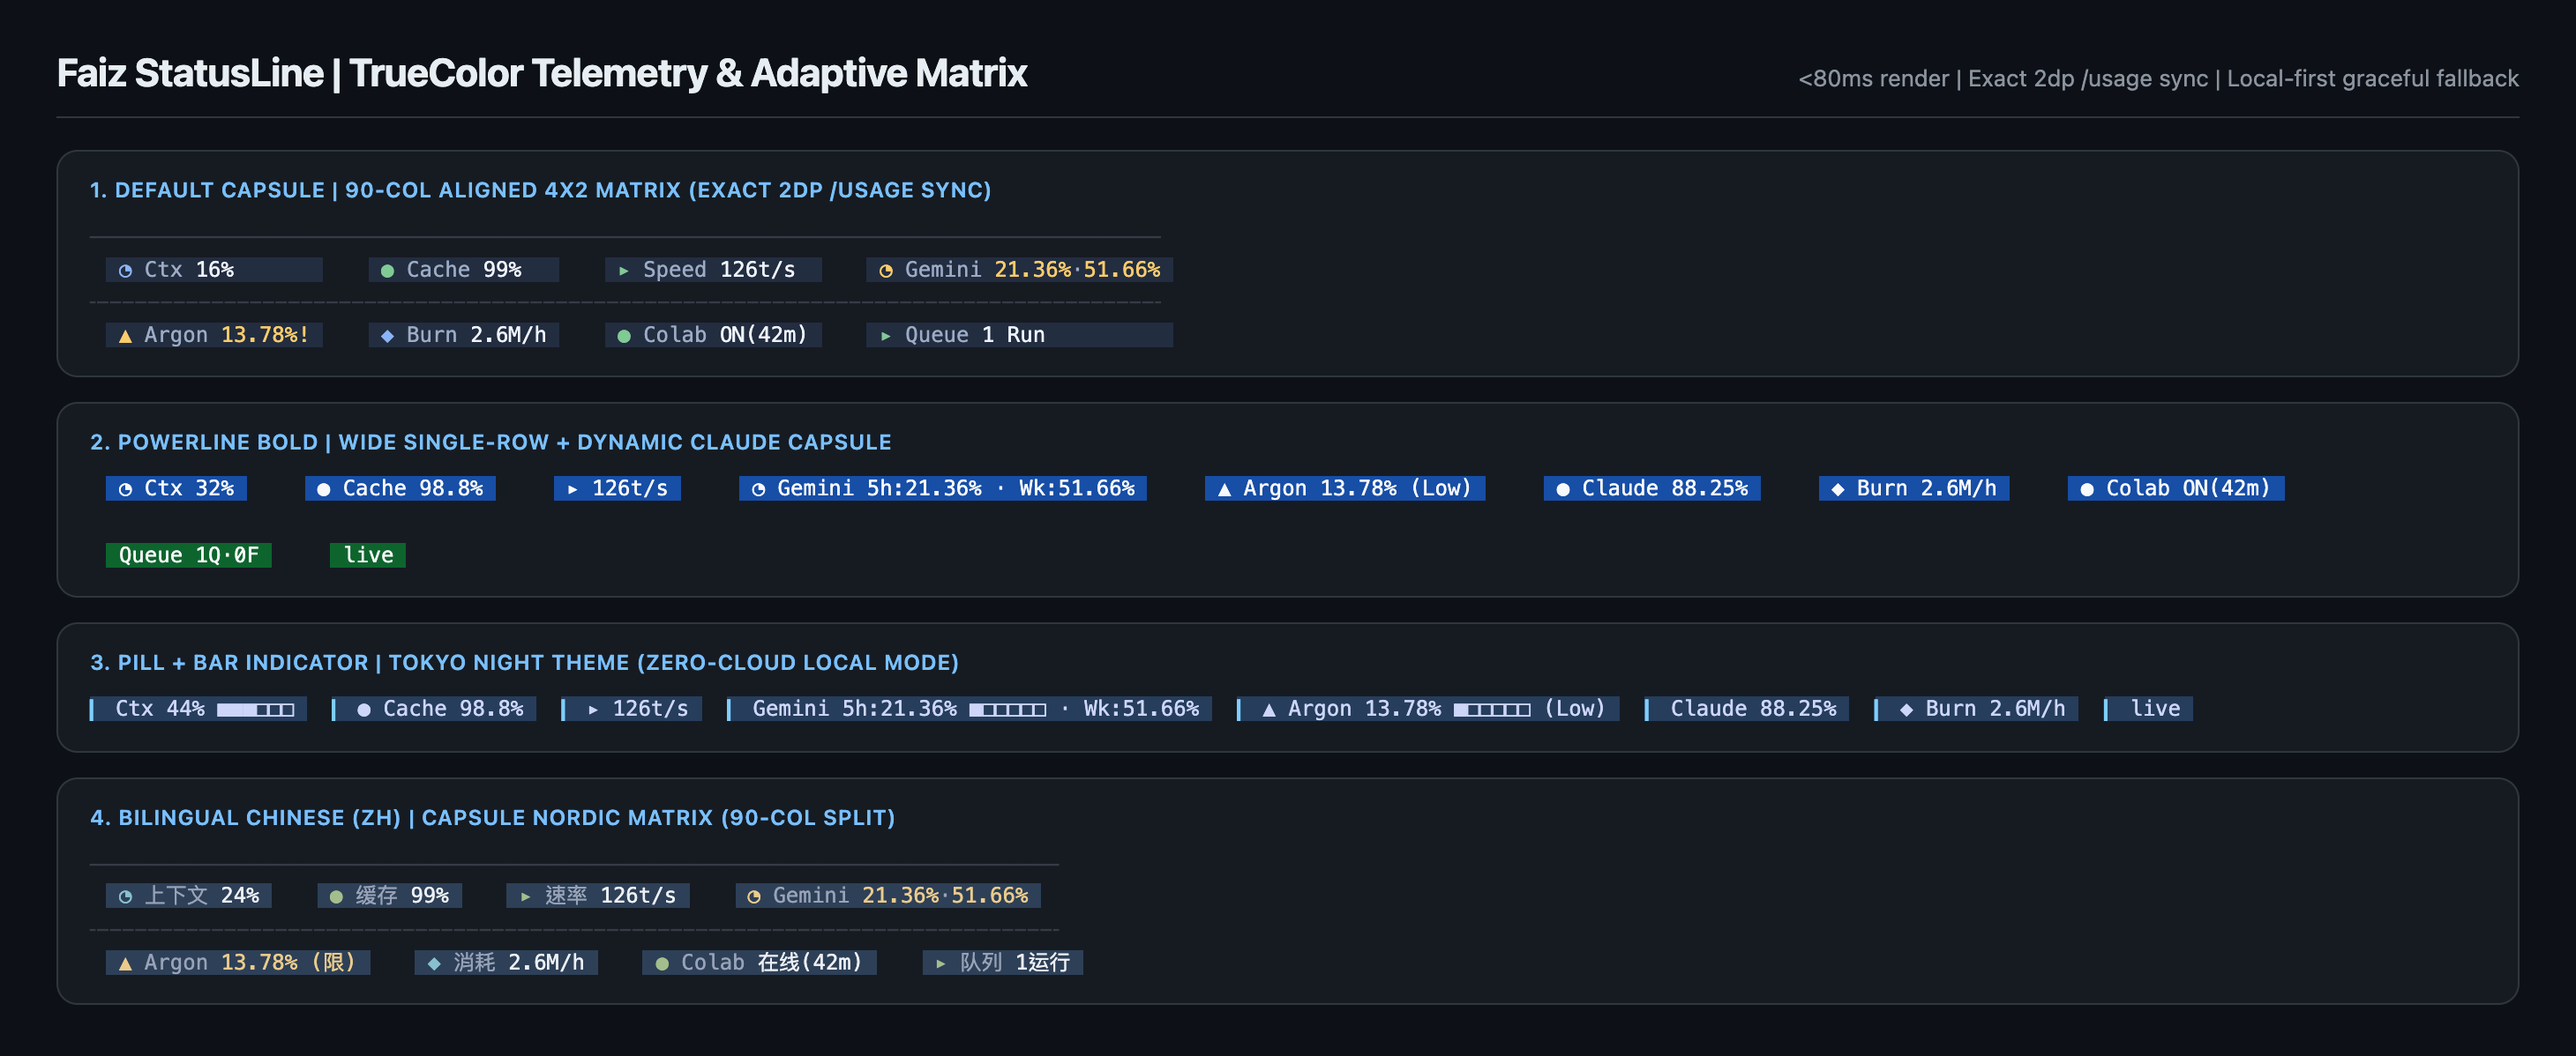
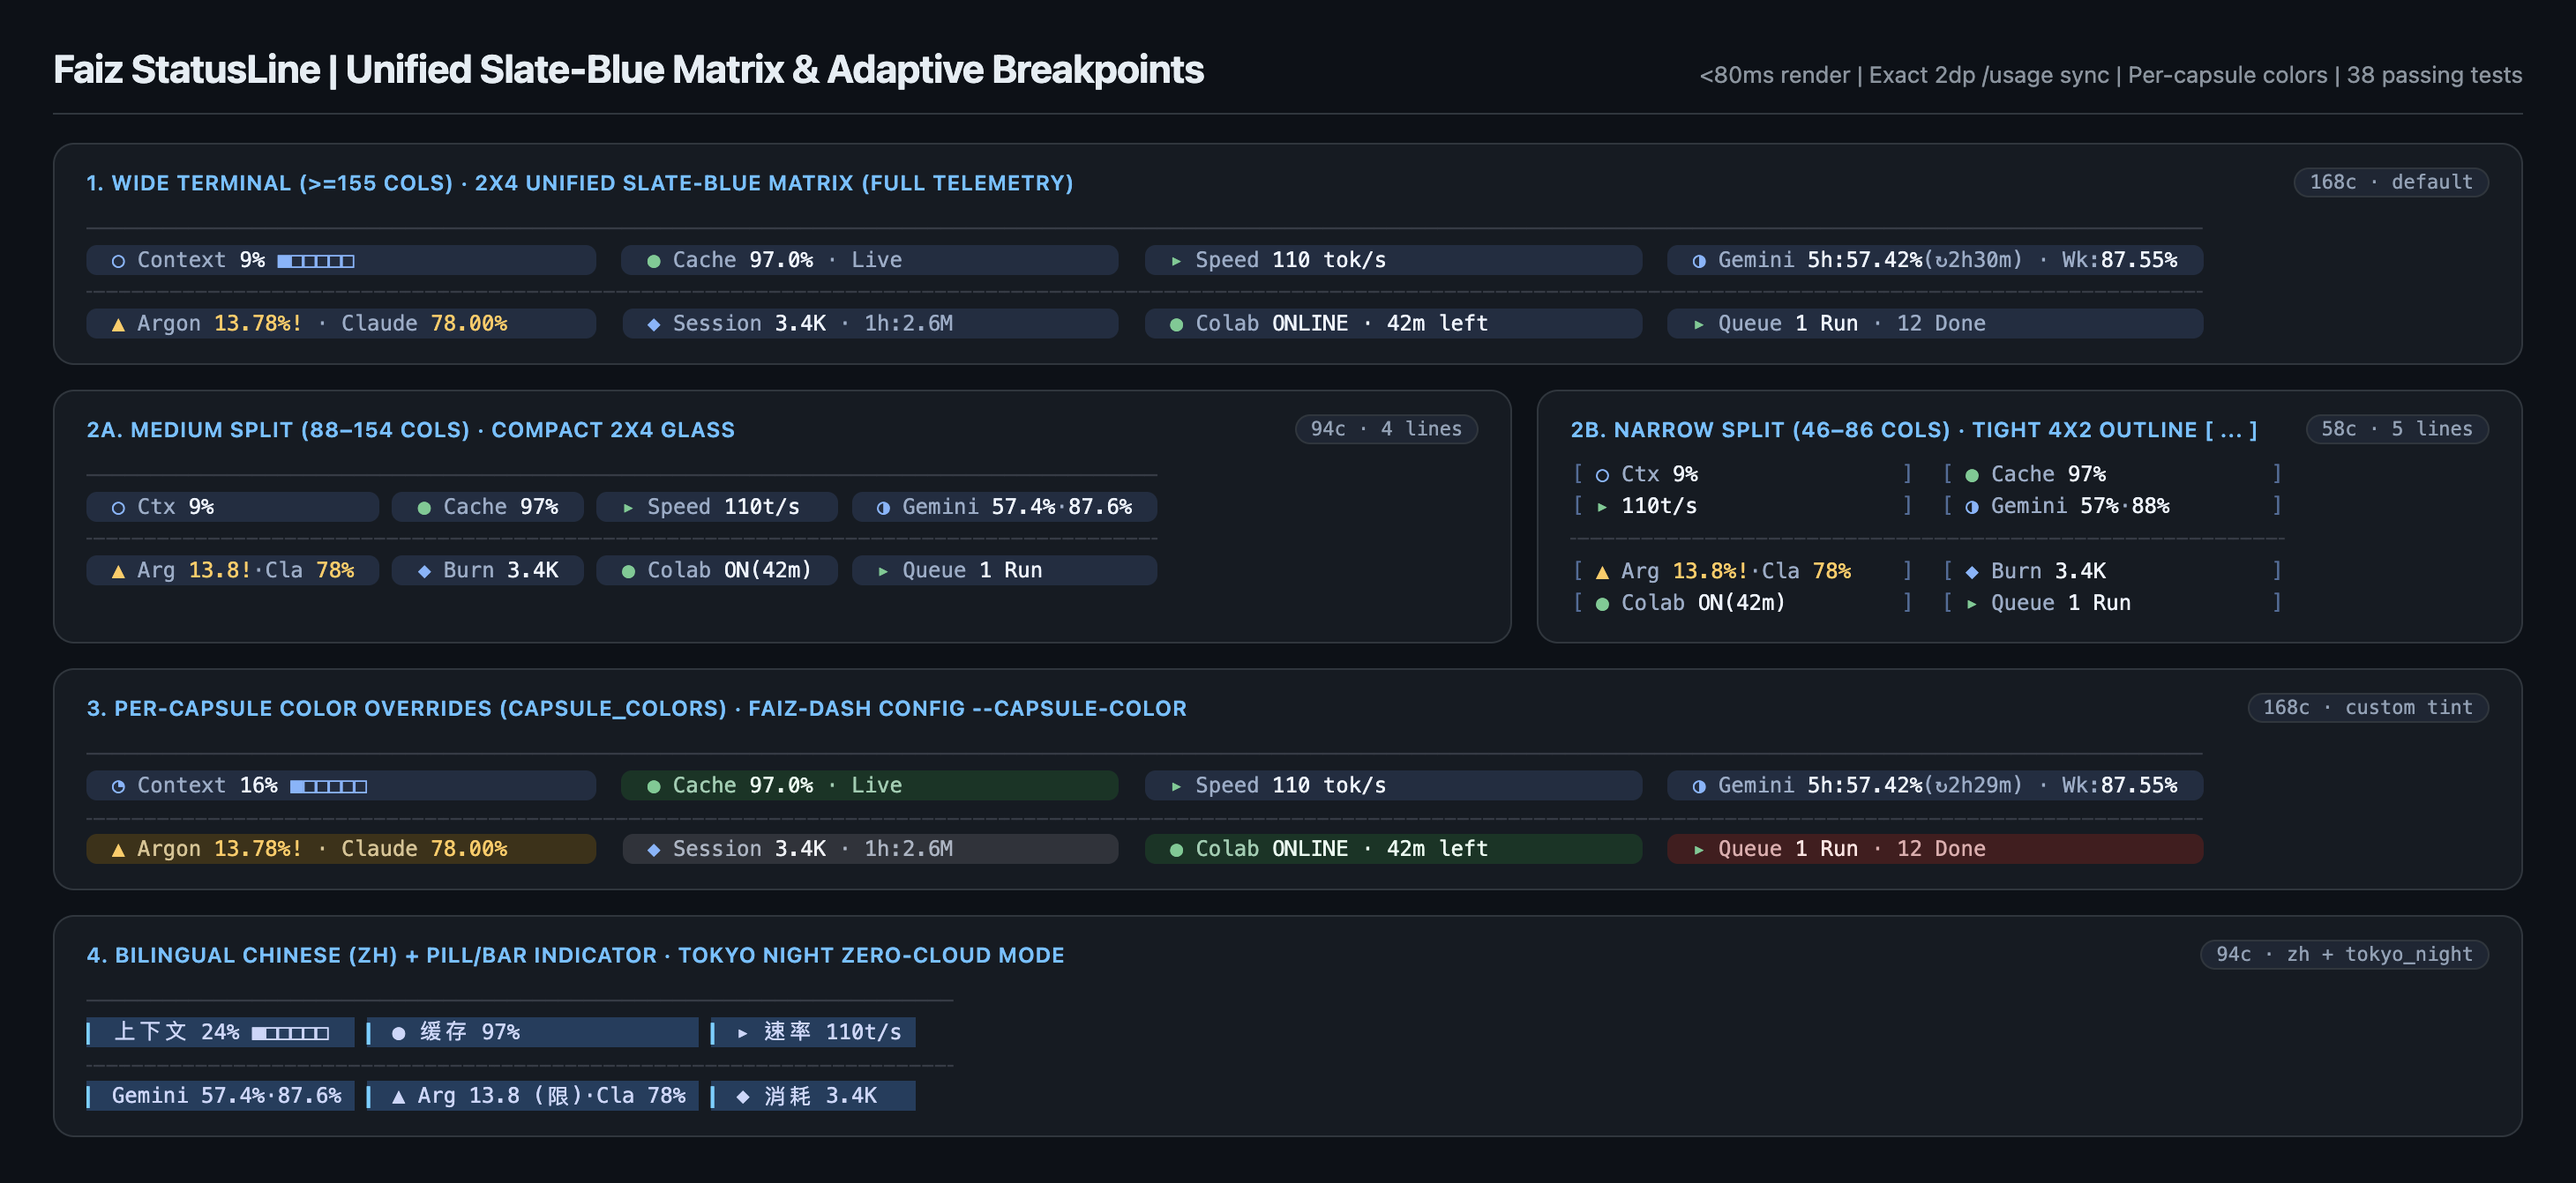
docs: refresh showcase screenshots and README for responsive matrix and per-capsule config

diff --git a/docs/site/index.html b/docs/site/index.html
@@ -296,7 +296,7 @@
       </div>
 
       <div class="hero-shot">
-        <img src="./assets/hero-statusline-themes.png" alt="Faiz StatusLine adaptive 90-col matrix and TrueColor themes" />
+        <img src="./assets/hero-statusline-themes.png" alt="Faiz StatusLine unified slate-blue 2x4 matrix, narrow 5-line 4x2 outline, and per-capsule color overrides" />
       </div>
     </section>
 
@@ -304,8 +304,8 @@
       <h2>Core Architecture</h2>
       <div class="grid-2">
         <div class="card">
-          <h3>&lt;80ms Pure Bash + jq StatusLine</h3>
-          <p>Reads local snapshots in sub-millisecond time without blocking prompts. Features a 90-col 4x2 aligned matrix on split panes, single-row wide expansion, and automatic 16-color fallback on Apple Terminal.</p>
+          <h3>&lt;80ms Responsive Matrix StatusLine</h3>
+          <p>Pure Bash + <code>jq</code> renders sub-80ms telemetry in unified deep slate-blue: wide <code>2&times;4</code> bento spread (<code>&gt;=155c</code>), compact 4-line <code>2&times;4</code> glass (<code>88–154c</code>), tight 5-line <code>4&times;2</code> slate-blue <code>[ ... ]</code> outline (<code>46–86c</code>), plus per-capsule color overrides (<code>capsule_colors</code>) and Apple Terminal 16-color fallback.</p>
         </div>
         <div class="card">
           <h3>Exact 2dp /usage Sync (45s Active)</h3>
@@ -330,8 +330,8 @@
           <img src="./assets/control-center-dock-side.png" alt="Faiz Control Center bottom dock and Rex right sidebar" />
         </div>
         <div class="shot-card">
-          <div class="shot-cap">Interactive Bilingual Settings Studio with Live TrueColor Preview (faiz-dash config)</div>
-          <img src="./assets/config-studio.png" alt="Faiz StatusLine and Control Center settings TUI" />
+          <div class="shot-cap">Interactive Bilingual Settings Studio with Per-Capsule Color Overrides (<code>faiz-dash config</code>)</div>
+          <img src="./assets/config-studio.png" alt="Faiz StatusLine and Control Center settings TUI with per-capsule color overrides" />
         </div>
       </div>
     </section>
@@ -346,7 +346,7 @@
           <tr><td><code>faiz-dash inspect [--live] [--json]</code></td><td>Print non-interactive diagnostic summary of quotas, 24h burn, cloud backoff, mailbox, and telemetry</td></tr>
           <tr><td><code>faiz-dash side</code></td><td>Toggle 28% right Textual sidebar inside Rex (<code>--focus=false</code>), with native Terminal fallback hint</td></tr>
           <tr><td><code>faiz-dash dock</code></td><td>Toggle bottom 3-column Dock inside Rex</td></tr>
-          <tr><td><code>faiz-dash config</code></td><td>Open interactive <code>en/zh</code> settings UI (supports CLI flags like <code>--style</code>, <code>--theme</code>, <code>--quota-precision</code>)</td></tr>
+          <tr><td><code>faiz-dash config</code></td><td>Open interactive <code>en/zh</code> settings UI (supports <code>--style</code>, <code>--theme</code>, <code>--row-colors</code>, <code>--capsule-color &lt;id&gt;=&lt;color&gt;</code>, <code>--quota-precision</code>)</td></tr>
           <tr><td><code>faiz-dash off / on / status</code></td><td>Manage startup auto-dock flag and inspect snapshot cache ages</td></tr>
         </tbody>
       </table>

diff --git a/README.md b/README.md
@@ -15,12 +15,12 @@ English | [简体中文](README.zh-CN.md)
 ## Highlights
 
 - **Exact `/usage` Quota Parity (`21.36% · 51.66%`)**: Captures live 5-hour & weekly remaining limits via an isolated PTY `/usage` probe (`flock`-guarded, `rfind()` frame settle to prevent TUI repaint tearing) with **activity-aware 45s refresh** when active turns burn quota (180s when idle).
-- **Sub-80ms Pure Bash + `jq` StatusLine**: Never blocks prompt rendering. Features a **90-col 4x2 aligned matrix** on split panes, single-row expansion on wide terminals (`>=155` cols), `Apple_Terminal` 16-color auto-fallback, and zero-noise hiding when no cloud remote is configured.
+- **Sub-80ms Pure Bash + `jq` StatusLine**: Never blocks prompt rendering. Features a unified **deep slate-blue** palette with a 4-tier responsive matrix: full-label **wide `2×4` glass spread** (`>=155` cols), compact 4-line **`2×4` glass** (`88–154` cols, with cold-tag compaction rescue), tight **5-line `4×2` slate-blue `[ ... ]` outline** (`46–86` cols), plus `Apple_Terminal` 16-color fallback and zero-noise cloud hiding.
 - **Prompt Cache Hit & Live Token Speed (`t/s`)**: Reads only the trailing tail of the active session `transcript.jsonl` to surface Cache Hit %, 3m/4m TTL cooldown alerts, and real-time output generation speed (`t/s`).
 - **Zero-Clutter On-Demand Inspection**:
   - **In-chat Diagnostic Bubble (`/faiz-dash` / `faiz-dash inspect`)**: Outputs a clean Markdown summary of all quota buckets, reset countdowns, 24h per-model token burn, cloud/drive backoff state, mailbox items, and read-only APM telemetry without occupying terminal width.
   - **On-Demand Rex Sidebar (`faiz-dash side`)**: Toggles a 28% vertical Textual sidebar in Rex (`--focus=false`) on demand (`q` or `faiz-dash side` to dismiss). Defaults to no permanent dock (`faiz-dash off`).
-- **Bilingual Settings Studio (`faiz-dash config`)**: Interactive `en`/`zh` Textual config editor with 5 visual styles (`capsule`, `powerline`, `pill`, `ghost`, `minimal`), themes (`google`, `nord`, `tokyo_night`, `catppuccin`, `custom`), `ring`/`bar` indicators, quota precision (`exact` / `1dp` / `int`), and live preview.
+- **Bilingual Settings Studio (`faiz-dash config`)**: Interactive `en`/`zh` Textual config editor with 5 visual styles (`capsule`, `powerline`, `pill`, `ghost`, `minimal`), 5 themes (`google`, `nord`, `tokyo_night`, `catppuccin`, `custom`), **per-capsule color overrides (`capsule_colors`)** (`blue`, `green`, `yellow`, `red`, `slate`, `muted`, `auto`), row uniform palettes, `ring`/`bar` indicators, quota precision (`exact` / `1dp` / `int`), Rex split ratios, and live preview.
 - **Optional Cloud & Worker Swarm Extension**: Seamlessly monitors Colab runtime heartbeats, 60-minute idle timers, GCE Spot instances, `rclone` Drive quota (with persistent exponential rate-limit backoff), and async mailbox job verification when `rclone.conf` is configured.
 
 ---
@@ -110,7 +110,7 @@ faiz-dash config          # Open interactive settings TUI with live preview
 | `faiz-dash inspect [--live] [--json]` | Print sanitized Markdown (or JSON) snapshot of quotas, burn, cloud/backoff, mailbox, and telemetry |
 | `faiz-dash side` | Toggle on-demand right-split Textual sidebar inside Rex (`--focus=false`), or print native Terminal hint |
 | `faiz-dash dock` | Toggle on-demand bottom 3-column Dock inside Rex |
-| `faiz-dash config` | Launch interactive settings TUI (also accepts CLI flags: `--style`, `--theme`, `--lang`, `--quota-precision`, `--side-ratio`, `--auto-dock on\|off`, `--show`, `--reset`) |
+| `faiz-dash config` | Launch interactive settings TUI (also accepts CLI flags: `--style`, `--theme`, `--lang`, `--quota-precision`, `--row-colors`, `--capsule-color <id>=<color>`, `--side-ratio`, `--auto-dock on\|off`, `--show`, `--reset`) |
 | `faiz-dash off` / `on` / `status` | Disable/enable startup auto-dock (`~/.agents/cache/dash_disabled`) and inspect cache ages |
 | `faiz-dash --once-json [--quota-only] [--no-pty]` | Run one-shot probe collection and emit combined JSON |
 | `faiz-dash --preset 1 \| 2` | Open full-terminal TUI directly in horizontal Dock (`1`) or vertical Sidebar (`2`) |
@@ -142,6 +142,13 @@ All settings live cleanly in `~/.agents/statusline_config.json` (zero config nee
   "theme": "google",
   "color_mode": "row",
   "quota_precision": "exact",
+  "row_colors": ["blue", "blue", "blue", "blue"],
+  "capsule_colors": {
+    "context": "auto",
+    "cache": "green",
+    "argon": "yellow",
+    "mailbox": "red"
+  },
   "control_center": {
     "side_ratio": 28,
     "dock_ratio": 22
@@ -164,7 +171,7 @@ If your workflow runs remote workers on Google Colab + Drive (`rclone`) + GCE Sp
 PYTHONPATH=src python3 -m unittest discover -s tests -v
 ```
 
-GitHub Actions CI ([`.github/workflows/ci.yml`](.github/workflows/ci.yml)) verifies shell syntax, `styles.tcss` wheel packaging, and all 36 unit/integration/Textual Pilot tests across Ubuntu & macOS.
+GitHub Actions CI ([`.github/workflows/ci.yml`](.github/workflows/ci.yml)) verifies shell syntax, `styles.tcss` wheel packaging, and all 38 unit/integration/Textual Pilot tests across Ubuntu & macOS.
 
 ## License
 

diff --git a/README.zh-CN.md b/README.zh-CN.md
@@ -15,12 +15,12 @@
 ## 核心特性
 
 - **与 `/usage` 两位小数逐位对齐（`21.36% · 51.66%`）**：通过隔离 PTY 探针采集 5 小时与每周剩余配额（带 `flock` 并发锁与 `rfind()` 尾帧防重绘撕裂）；当检测到活跃对话消耗配额时自动切换为 **45 秒高频后台刷新**（空闲保持 180 秒零消耗）。
-- **`<80ms` 纯 Bash + `jq` 热路径渲染**：永不阻塞输入提示符。支持 **90 列分屏 4x2 对齐矩阵**、宽屏（`>=155` 列）自动单行展开、`Apple_Terminal` 16 色自动降级；未配置云端环境时自动零噪音隐藏云模块。
+- **`<80ms` 纯 Bash + `jq` 热路径渲染**：永不阻塞输入提示符。采用统一**深石板蓝**默认视觉与四级自适应矩阵：宽屏（`>=155` 列）自动扩展为完整标签 **`2×4` 铺满矩阵**，中屏分屏（`88–154` 列）保持 **4 行紧凑 `2×4` 玻璃胶囊**（内建 `cold` 标签兜底防塌缩），窄屏分屏（`46–86` 列）自动收紧为 **5 行 `4×2` 石板蓝线框 `[ ... ]` 胶囊**，并支持 `Apple_Terminal` 16 色降级与无云端配置零噪音隐藏。
 - **Prompt Cache 命中率与实时输出速率 (`t/s`)**：仅增量读取当前会话 `transcript.jsonl` 尾行，实时呈现缓存命中率、3m/4m TTL 冷却预警与真实输出速度 (`t/s`)。
 - **零常驻挤压的双通道检视**：
   - **会话内气泡式诊断（`/faiz-dash` / `faiz-dash inspect`）**：不占用终端列宽，直接输出配额四分组与重置倒计时、24 小时各模型 Token Burn、Cloud/Drive 退避状态、Mailbox 队列核验与只读 APM 遥测摘要。
   - **Rex 按需右侧边栏（`faiz-dash side`）**：在 Rex 内一键开关右侧 28% 宽度实时看板（`--focus=false` 不抢焦点，按 `q` 或再次执行 `faiz-dash side` 关闭），默认关闭启动自动 Dock（`faiz-dash off`）。
-- **中英双语设置工作室（`faiz-dash config`）**：交互式配置 8 个信息模块、5 种视觉风格（`capsule` / `powerline` / `pill` / `ghost` / `minimal`）、4 套主题配色、`ring`/`bar` 指示器、配额精度（`exact` 2 位 / `1dp` / `int`）、启动开关及分屏宽度比例，底部提供实时 TrueColor 预览。
+- **中英双语设置工作室（`faiz-dash config`）**：交互式配置 8 个信息模块、5 种视觉风格（`capsule` / `powerline` / `pill` / `ghost` / `minimal`）、5 套主题配色（`google` / `nord` / `tokyo_night` / `catppuccin` / `custom`）、**按胶囊独立覆盖配色（`capsule_colors` / `--capsule-color`）**、行统一配色（`row_colors`）、`ring`/`bar` 指示器、配额精度（`exact` 2 位 / `1dp` / `int`）、启动开关及 Rex 分屏比例，底部提供实时 TrueColor 预览。
 - **可选云算力与异步队列扩展**：配置 `rclone.conf` 后自动接入 Colab 心跳状态、60 分钟闲置计时、GCE Spot 实例监控、Google Drive 水位（含持久指数退避）与产物防假完成核验。
 
 ---
@@ -110,7 +110,7 @@ faiz-dash config          # 打开双语实时预览设置中心
 | `faiz-dash inspect [--live] [--json]` | 非交互式输出配额、24h Burn、云端退避、Mailbox 与 APM 遥测报告 |
 | `faiz-dash side` | 在 Rex 中按需打开/关闭右侧边栏（保持主对话焦点；非 Rex 终端会提示替代方案） |
 | `faiz-dash dock` | 在 Rex 中按需打开/关闭底部三栏 Dock |
-| `faiz-dash config` | 启动设置 UI（也支持 CLI 参数：`--style`、`--theme`、`--lang zh\|en`、`--quota-precision exact\|1dp\|int`、`--side-ratio`、`--auto-dock on\|off`、`--show`、`--reset`） |
+| `faiz-dash config` | 启动设置 UI（也支持 CLI 参数：`--style`、`--theme`、`--lang zh\|en`、`--quota-precision exact\|1dp\|int`、`--row-colors`、`--capsule-color <id>=<color>`、`--side-ratio`、`--auto-dock on\|off`、`--show`、`--reset`） |
 | `faiz-dash off` / `on` / `status` | 关闭/开启新会话自动弹出底部 Dock（`~/.agents/cache/dash_disabled`）及查看缓存状态 |
 | `faiz-dash --once-json [--quota-only] [--no-pty]` | 单次采集快照并输出脱敏 JSON |
 | `faiz-dash --preset 1 \| 2` | 在当前终端直接以横排 Dock (`1`) 或竖排侧栏 (`2`) 启动全屏 TUI |
@@ -140,4 +140,4 @@ faiz-dash config          # 打开双语实时预览设置中心
 PYTHONPATH=src python3 -m unittest discover -s tests -v
 ```
 
-[GitHub Actions CI](.github/workflows/ci.yml) 在 Ubuntu 与 macOS 上自动校验 Shell 语法、`styles.tcss` 打包完整性以及全部 36 项单元与 Textual Pilot 集成测试。采用 [MIT License](LICENSE) 开源。
+[GitHub Actions CI](.github/workflows/ci.yml) 在 Ubuntu 与 macOS 上自动校验 Shell 语法、`styles.tcss` 打包完整性以及全部 38 项单元与 Textual Pilot 集成测试。采用 [MIT License](LICENSE) 开源。
